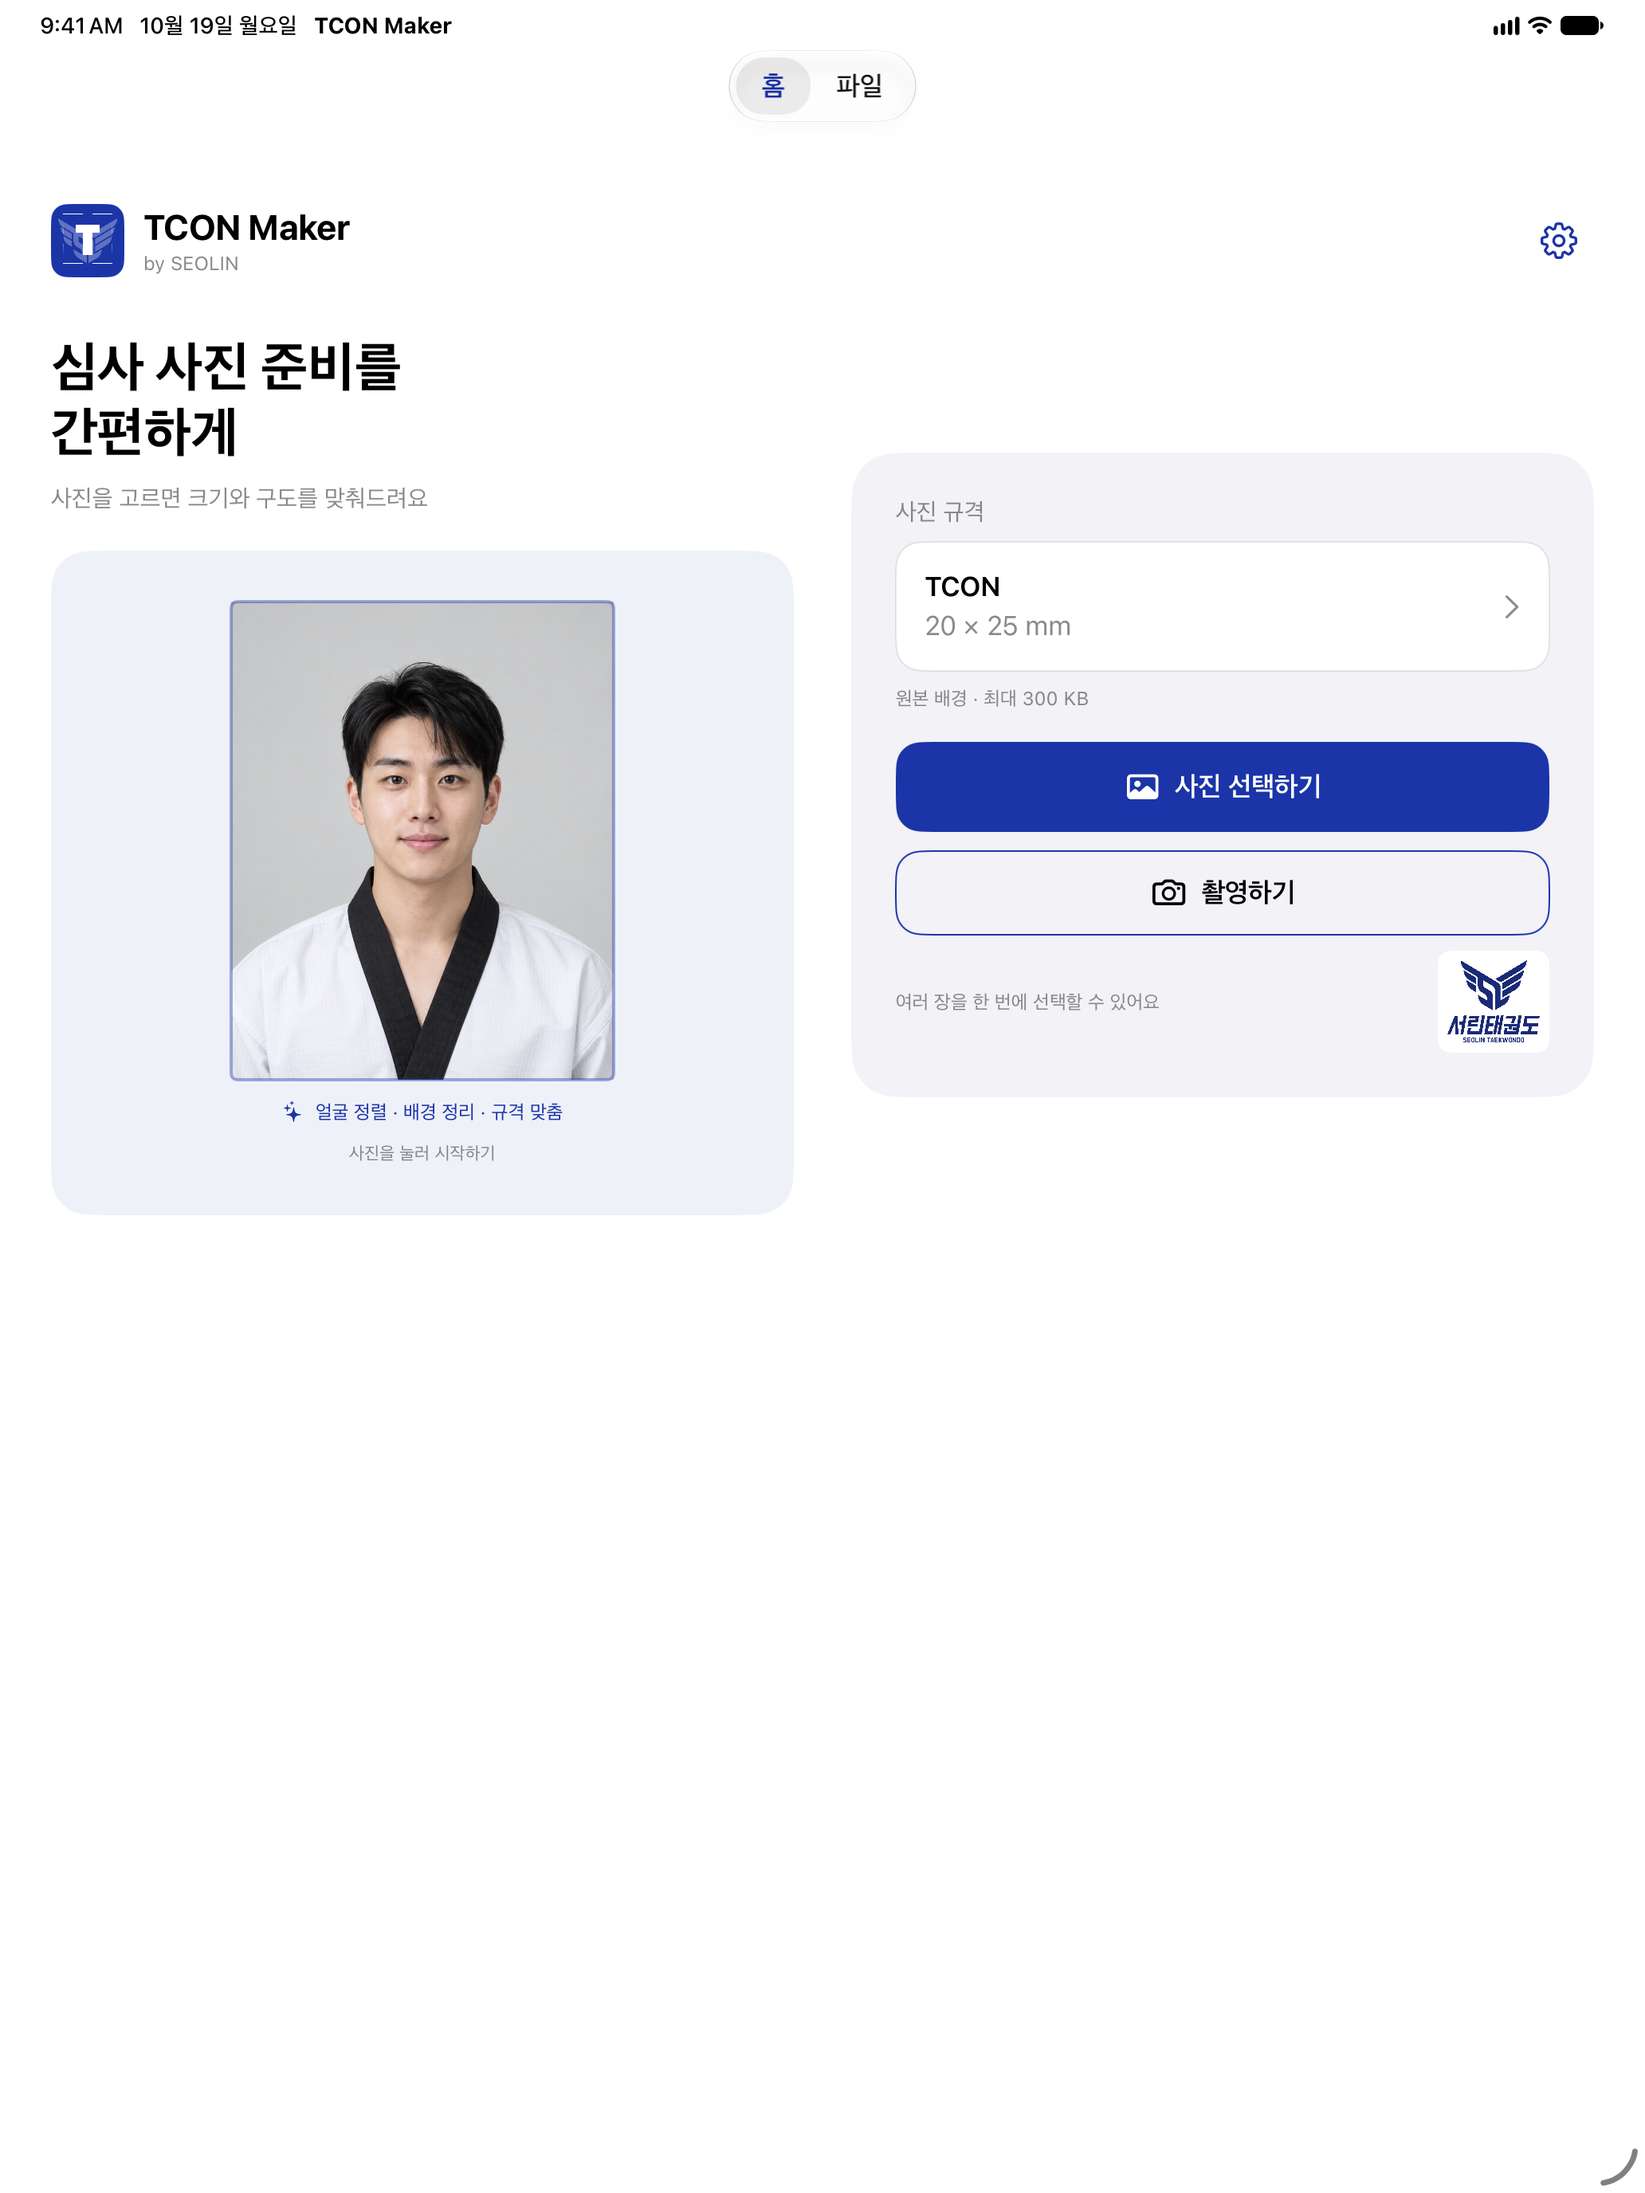
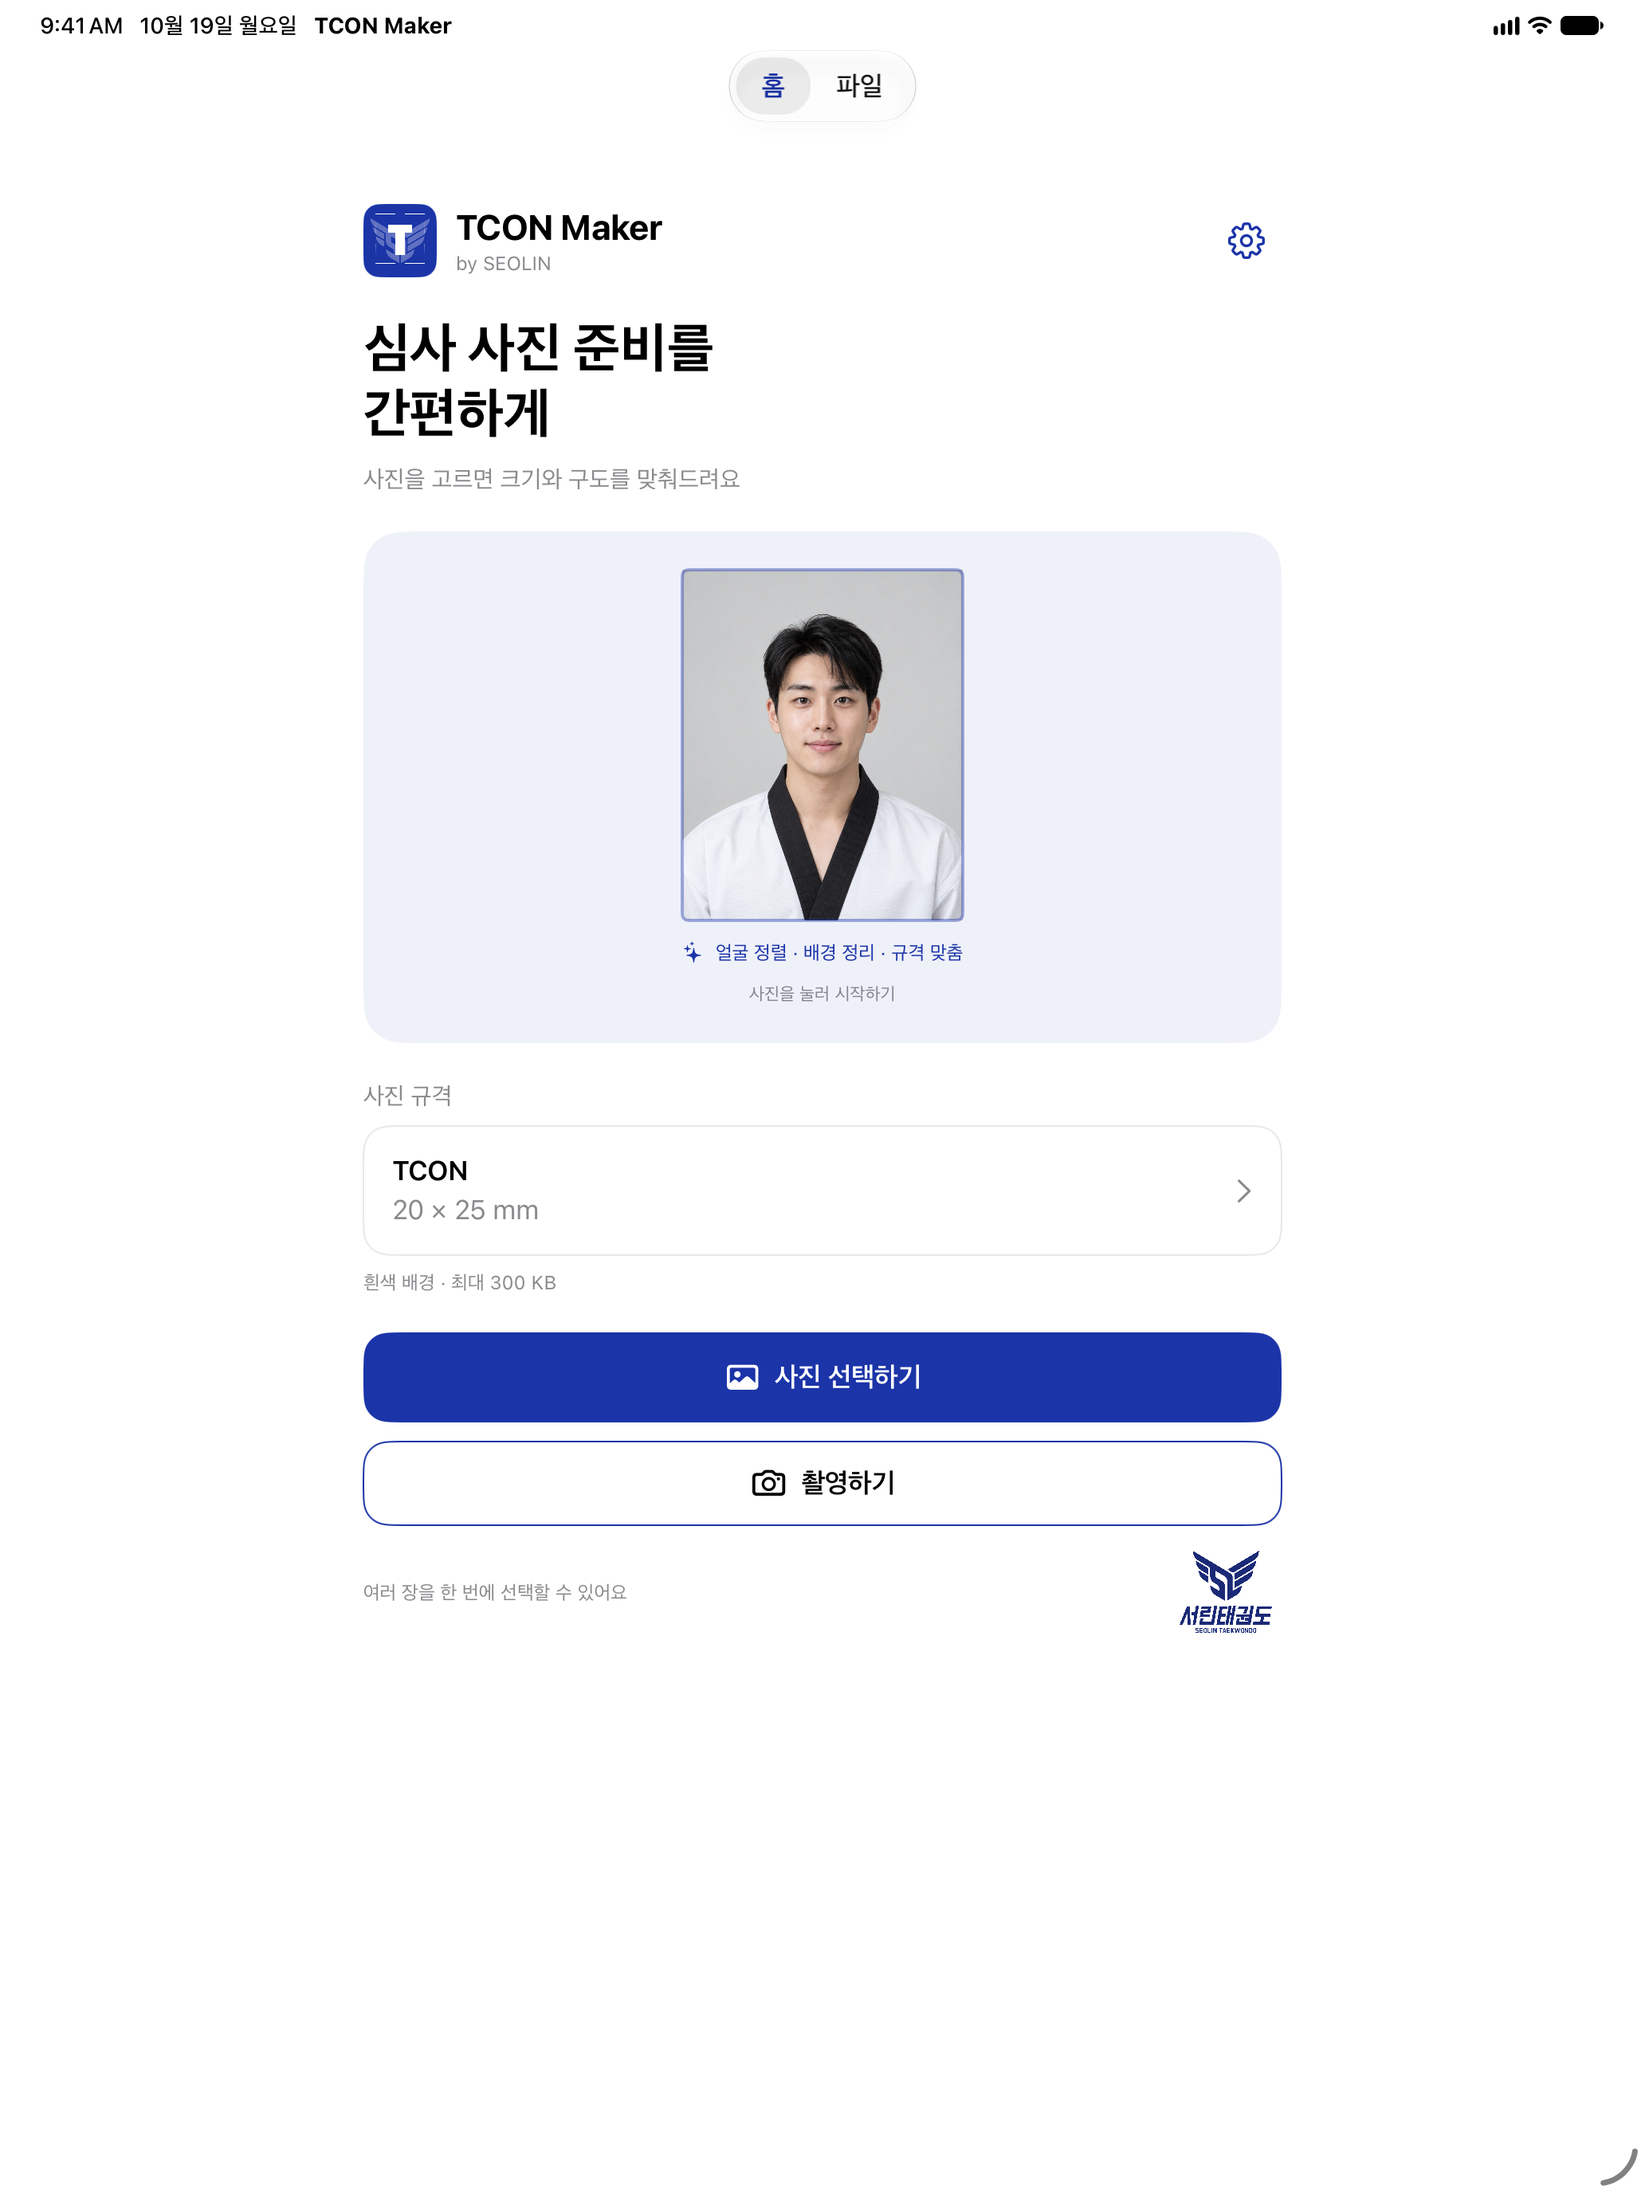
[add] 아이패드 새 홈 캡처와 홍보 이미지 갱신

diff --git a/Scripts/import_appstore_captures.py b/Scripts/import_appstore_captures.py
@@ -10,18 +10,24 @@ import struct
 parser = argparse.ArgumentParser(description=__doc__)
 parser.add_argument('attachments', type=Path)
 parser.add_argument('--device', required=True, choices=['iPhone-Large-1320x2868', 'iPad-13-2064x2752'])
+parser.add_argument('--screens', nargs='+', help='Refresh only these named screens, e.g. 01-home 07-settings')
 args = parser.parse_args()
+all_screens = {f'{i:02}-{name}' for i, name in enumerate(['home', 'folders', 'editor', 'background', 'selection', 'export', 'settings', 'home-actions'], start=1)}
+requested = set(args.screens) if args.screens else all_screens
+assert requested and requested <= all_screens, 'Unknown screen name'
+
 root = Path(__file__).resolve().parents[1]
 out = root / 'Design/AppStore/Captures/v1.0.2'
 folder = out / 'ko-KR' / args.device
 folder.mkdir(parents=True, exist_ok=True)
 manifest = json.loads((args.attachments / 'manifest.json').read_text())
 seen = set()
+pending = []
 for test in manifest:
     for attachment in test['attachments']:
         name = attachment['suggestedHumanReadableName']
         match = re.match(r'store-(\d{2}-[a-z-]+)', name)
-        if not match or 'landscape' in match[1]:
+        if not match or match[1] not in requested:
             continue
         assert not attachment['isAssociatedWithFailure'], 'Cannot publish failed-test captures'
         source = args.attachments / attachment['exportedFileName']
@@ -33,10 +39,12 @@ for test in manifest:
         dest = folder / (match[1] + '.png')
         assert dest.name not in seen, 'Duplicate named capture'
         seen.add(dest.name)
-        shutil.copy2(source, dest)
-        assert dest.read_bytes() == data
-required = {f'{i:02}-{name}.png' for i, name in enumerate(['home', 'folders', 'editor', 'background', 'selection', 'export', 'settings', 'home-actions'], start=1)}
+        pending.append((source, dest, data))
+required = {name + '.png' for name in requested}
 assert required <= seen, 'Incomplete capture set: ' + str(required - seen)
+for source, dest, data in pending:
+    shutil.copy2(source, dest)
+    assert dest.read_bytes() == data
 entries = []
 for p in sorted((out / 'ko-KR').rglob('*.png')):
     data = p.read_bytes()

diff --git a/Docs/IPAD_HOME_56.md b/Docs/IPAD_HOME_56.md
@@ -1,0 +1,28 @@
+# iPad 홈 세로 배치 (#56)
+
+- 작업 브랜치: `fix/#56-ipad-home`
+- 다음 출시 준비 버전: 1.0.2 (4)
+- App Store Connect 이미지 교체와 빌드 업로드는 후속 작업이다.
+
+## 변경
+
+iPad 홈의 좌우 분할을 제거했다. 로고와 안내, 예시 사진, 사진 규격, 사진 선택·촬영, 여러 장 안내와 오른쪽 서린 로고가 같은 스크롤 안에서 세로로 이어진다. 넓은 창에서는 전체 너비를 최대 640pt로 제한하고 예시 사진을 176×220pt로 표시한다. 좁은 창에서는 기존 560pt 제한과 작은 사진 크기를 유지한다. 가로 화면도 같은 순서로 스크롤할 수 있다.
+
+예시 사진과 사진 선택 버튼의 사진 보관함 연결, 규격 버튼의 전체 설정 연결을 유지한다. 사진 편집 화면의 넓은 iPad 배치는 변경하지 않았다.
+
+## 검증 및 캡처
+
[1 lines of base64/hex data omitted]
+
+실제 촬영 첨부 중 `store-01-home`, `store-08-home-actions`, `store-07-settings`만 원본 PNG로 가져온다. 이전 전체 캡처 테스트의 홈 검증도 새 세로 순서로 맞췄다. 이번 범위에서는 전체 사진 처리 테스트를 반복하지 않는다.
+
+홍보 이미지 2페이지에는 새 홈을 반영하고, 3페이지도 설정 뒤의 홈 배경이 일치하도록 갱신한다. 다른 화면과 표지는 기존 이미지를 유지한다. 새 최종 이미지는 기존과 같은 기기 목업, 제목·설명, 시간·배터리 제외 처리를 사용한다.
+
+## 완료 결과
+
+- iPad Pro 13형 시뮬레이터 빌드 및 관련 UI 테스트 1건 통과(69.232초).
+- 변경된 홈과 설정 원본 캡처를 직접 확인했다. 이번 검증은 세로 기본 글자 크기 대상이며 실제 기기·가로 화면·Split View는 재검증하지 않았다.
+- 앱 코드 커밋 `2973f58` 기준 캡처, 1.0.2 (4). 테스트 결과: `/private/tmp/tcon-ipad-home-56.xcresult`.
+- 최종 PNG 21장의 크기·RGB 불투명도·해시 확인 완료. 새 2장의 레이아웃 검사를 통과했다. 변경된 최종 이미지는 iPad 2·3페이지뿐이며 나머지 19장의 SHA-256은 이전 파일과 동일하다.
+- 재렌더 명령: 기존 런타임으로 `Scripts/render_appstore.mjs --refresh-ipad-home`. 관련 2장만 렌더하고 나머지 최종 이미지는 보존한다.
+- 최종 파일은 문서/SEOLIN_배포자료/TCON/TCON_AppStore_홍보이미지_1.0.2 및 같은 이름 ZIP에 반영했다.

diff --git a/Design/AppStore/README.md b/Design/AppStore/README.md
@@ -51,3 +51,9 @@ TCON_RENDER_BROWSER='/Applications/Google Chrome.app/Contents/MacOS/Google Chrom
 2026-10-19 새 로고의 메인 파랑 `#1B34A8`과 보조 파랑 `#6071C2`를 반영했다. 원본은 `Design/Brand`에 보존하며 최종 manifest에 브랜드 원본 해시·표현 개정·앱 버전·빌드를 기록한다. 로고가 바뀐 새 개정에서 표지 기준을 갱신하고 같은 개정의 후속 재생성에서는 표지 해시를 다시 검사한다. 이전 표지는 Git 이력에서 확인할 수 있다.
 
 표지 일관성만 재확인할 때는 `node Scripts/render_appstore.mjs --verify-covers`를 사용한다. 이 모드는 최종 이미지나 manifest를 수정하지 않는다.
+
+### iPad 홈 세로 배치 갱신 (#56)
+
+2페이지는 예시 사진 아래에 규격·사진 선택·촬영을 배치한 실제 iPad 홈으로 교체했다. 3페이지도 같은 빌드의 설정 화면으로 다시 촬영했다. 그 외 19장의 최종 PNG는 이전과 동일하다. App Store Connect 반영은 별도 후속 작업이다.
+
+관련 페이지만 재생성하려면 기존 렌더 명령에 `--refresh-ipad-home`을 추가한다.

diff --git a/Design/AppStore/Captures/v1.0.2/README.md b/Design/AppStore/Captures/v1.0.2/README.md
@@ -3,3 +3,9 @@
 아이폰 18 Pro Max와 아이패드 Pro 13형 iOS 27 시뮬레이터에서 실제 앱을 촬영했습니다. 각 8장, 총 16장의 세로 PNG는 픽셀 수정 없이 보존했습니다. 가상의 성인 예시 사진과 원본 배경 모드를 사용했습니다. manifest에 버전·빌드·실제 크기·SHA-256을 기록합니다.
 
 홍보용 최종 이미지는 상위 ko-KR 폴더의 각 7장입니다. 온보딩과 최대 글자 크기·다크 모드 검증 캡처는 별도 Design/Brand/Verification에 보관하며 홍보용으로 사용하지 않습니다.
+
+## iPad 홈 갱신 (#56)
+
+2026-10-19 코드 커밋 `2973f58`에서 iPad 홈을 단일 열로 변경했다. 관련 UI 테스트 통과 후 `01-home`, `08-home-actions`, `07-settings`만 다시 촬영했다. 원본 파일은 수정하지 않았으며 새 해시는 manifest에 반영했다.
+
+재현: `python3 Scripts/import_appstore_captures.py <attachments> --device iPad-13-2064x2752 --screens 01-home 08-home-actions 07-settings`
